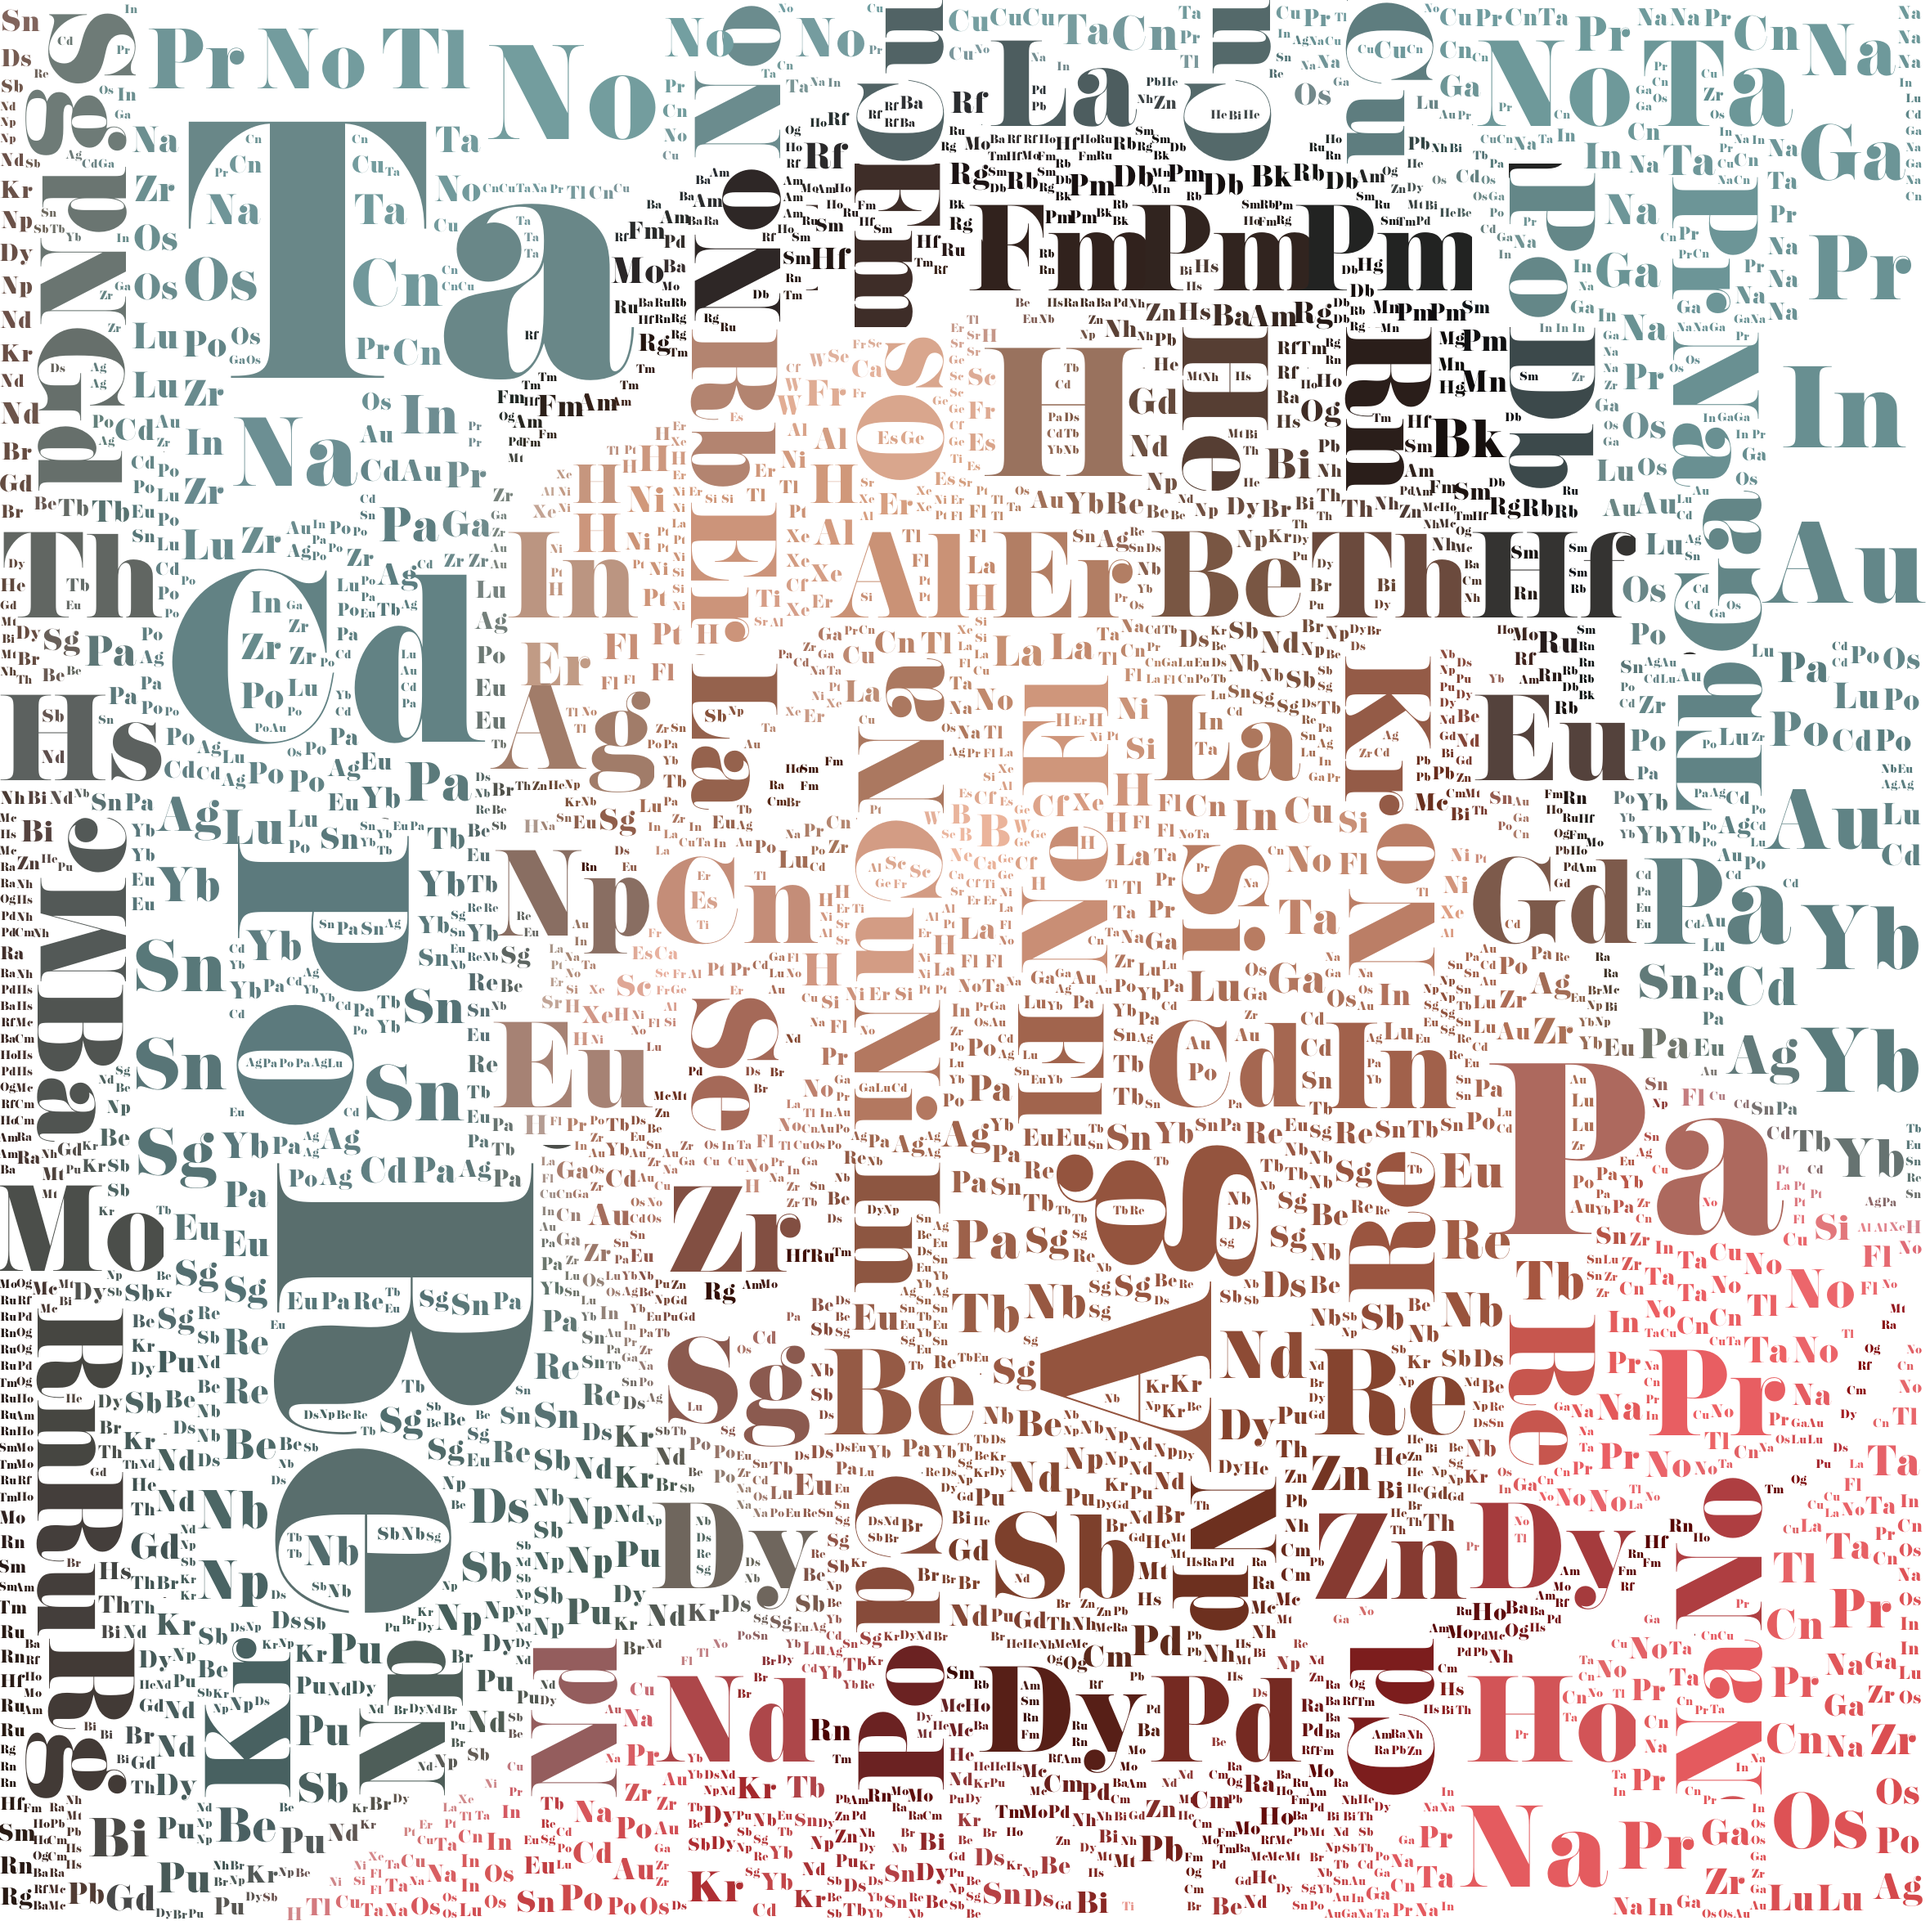
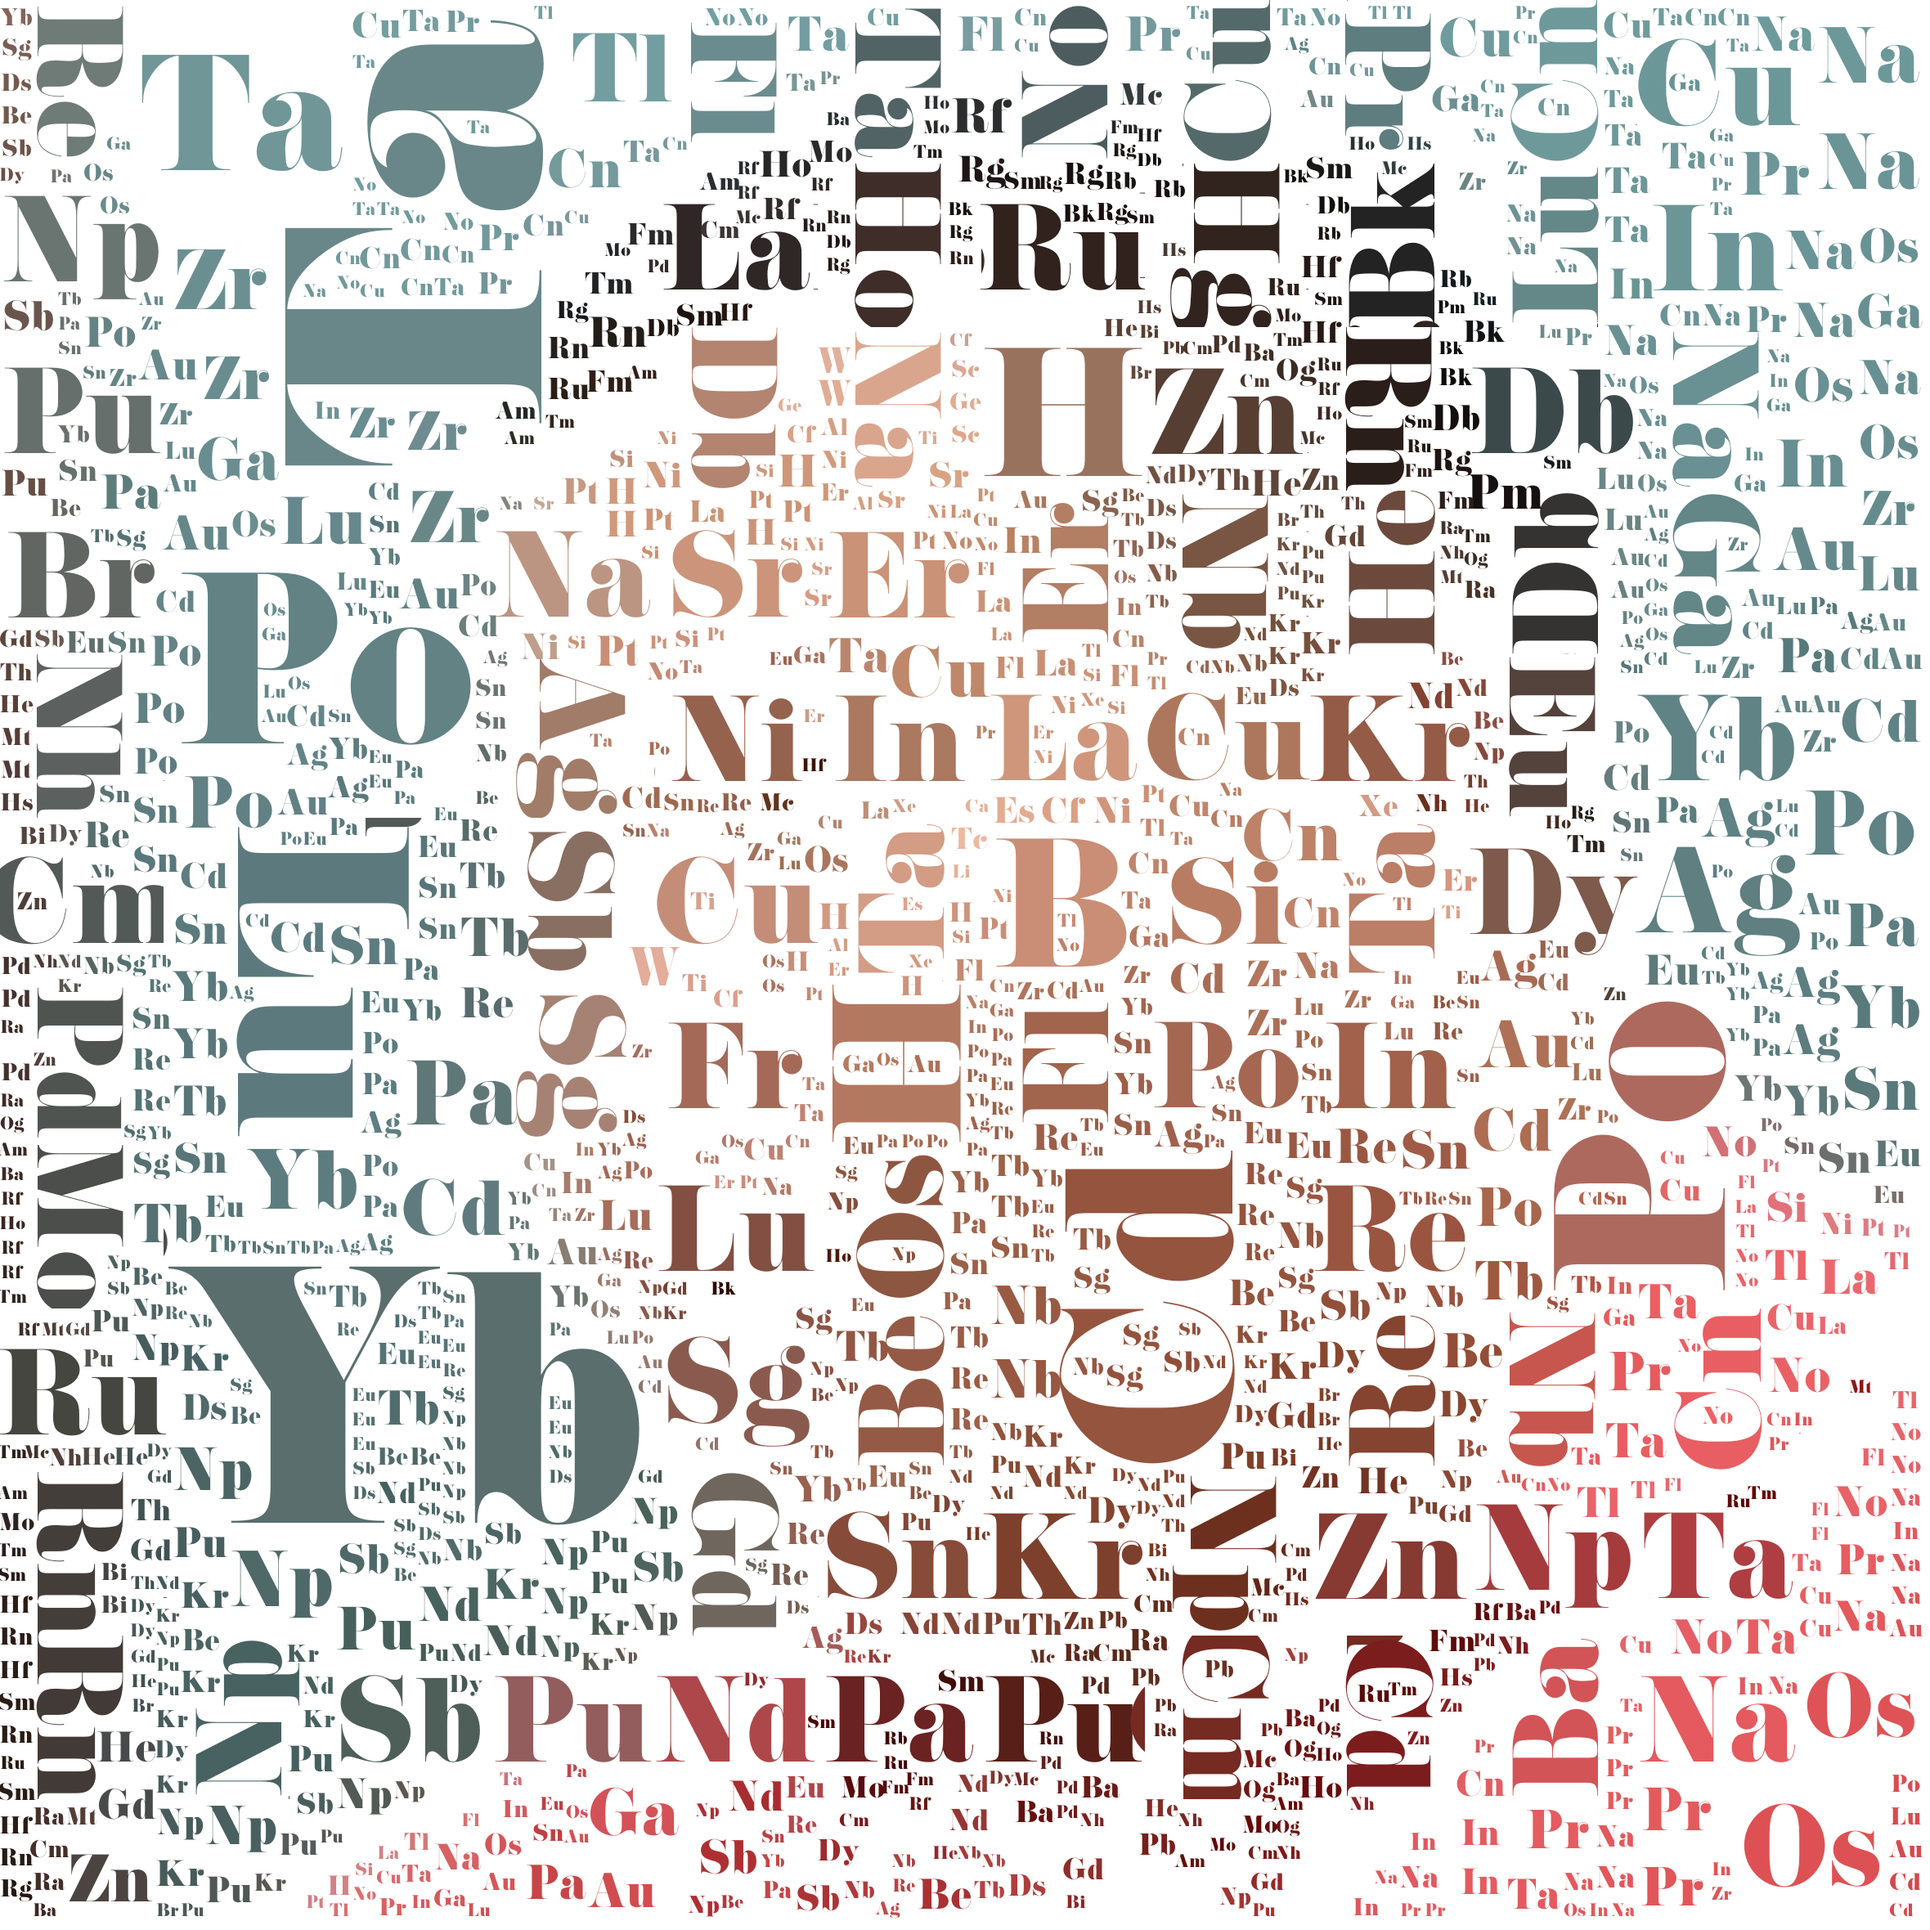
FinallyDone!!!

diff --git a/BoxingBrute3.py b/BoxingBrute3.py
@@ -1,0 +1,154 @@
+from os import path
+import os,csv
+from PIL import Image, ImageDraw,ImageFont
+from random import randint,choice
+
+# ====================================================================================================================================================
+# Define Shits
+
+def current_folder(file_name):
+    d = path.dirname(__file__) if "__file__" in locals() else os.getcwd()
+    return path.join(d, file_name)
+
+# with open(current_folder(r'txt\Element_sorted.txt'),"r") as f:
+#     Element=f.read().split(',')
+
+
+with open(current_folder(r"txt\element_abundance.csv")) as f:
+    raw=csv.reader(f)
+    field=next(raw)
+    Element=[]
+    for i in raw:
+        if len(i):
+            Element.append(i[1])
+    Grp_element=[]
+    cnt=2
+    i=0
+    while cnt<len(Element)//2:
+        Grp_element.append([Element[k] for k in range(i,min(len(Element)-1,i+cnt))])
+        i+=cnt
+        cnt=cnt*2
+
+    # group elements by decimal places
+print(Grp_element)
+# MAX_BOX_SIZE=45
+
+
+# IMPORTANT!!!! TODO ALGRITHM
+def map_to(l,v): # need to redo scaling algrithm
+    #use size of box determine which category should the word be in
+    # linear doesnt work!
+    # alter should be max/val
+    # categroise should be exponetial!
+    # maybe ill need to play around with maths
+    alter=choice(l[max(-len(l),-v//10)])
+    return alter
+
+class txt():
+    def __init__(self , word:str  , font_path:str , rect:tuple , fill:tuple) :
+        font_size_ref={1:1,2:1.5}
+        self.text=word
+        self.font_path=font_path
+        self.x=None
+        self.y=None
+        self.rect=rect
+        self.font_size=(rect[2]-rect[0])/font_size_ref[len(word)]
+        self.fill=fill
+    def draw(self,scale:int , canvas:ImageDraw, canvas_img:Image , fill=(-1,-1,-1) , bg:bool=False,rotate:bool=False):
+        #scale
+        font = ImageFont.truetype(self.font_path,self.font_size*scale)
+        bbox= font.getbbox(self.text)  # Size of text w/font if rendered.
+        txt_width ,txt_height = bbox[2]-bbox[0], bbox[3]-bbox[1]
+        txt_l,txt_u=((scale*(self.rect[0]+self.rect[2])//2)-txt_width//2 , (scale*(self.rect[1]+self.rect[3])//2) - txt_height//2)
+        try:
+            if(fill[0]==-1): fill=self.fill
+        except:
+            pass
+        rect=tuple(map(lambda x:x*scale,self.rect))
+        if(bg):canvas.rectangle(rect,fill=self.fill)
+        canvas.text((txt_l,txt_u), self.text, fill=fill,font=font,align="centre")
+
+        if(rotate):
+            rotation=choice([270,0,0,90])
+            tmp = canvas_img.crop (rect)
+            tmp = tmp.rotate (rotation, expand = 1)
+            canvas_img.paste (tmp, (rect[0],rect[1]))
+
+
+# ====================================================================================================================================================
+#Load Shits
+
+img=Image.open(current_folder(r"style\Face3.jpg"))
+imgl=img.convert("L")
+w,h=imgl.size
+
+# ====================================================================================================================================================
+# Here onward, First round of Boxxing(big boxes)
+
+
+# delete pixel flag, change to a greyscale canvas
+flag=Image.new(size=(w,h),color=255,mode='L')
+flag_canvas=ImageDraw.Draw(flag)
+
+ENLARGE=10
+TXT=[]
+
+print(h,w)
+STEP1=1
+LAGRER_FACTOR=1.2
+THRESHOLD1=40
+
+# need to double the scale of canvas !
+for y in range(h):
+    if y%10==0: print("row",y)
+    for x in range(w):
+        if( flag.getpixel((x,y))==255):
+            # overlap problem
+            # The starting block was not flagged, it eats into other boxes
+            mean=imgl.getpixel((x,y))
+            pc=0# pixel count
+            # prevh,prevw,prevd=mean,mean,mean
+            while(y+pc<h and x+pc<w):
+                    pixh=imgl.getpixel((x+pc,y))
+                    pixw=imgl.getpixel((x,y+pc))
+                    pixd=imgl.getpixel((x+pc,y+pc))
+                    # delete pixel flag, change to a greyscale canvas
+                    if(flag.getpixel((x+pc,y+pc))!=255 or  flag.getpixel((x,y+pc))!=255 or flag.getpixel((x+pc,y))!=255): break
+                    if( abs(pixh-mean)+abs(pixw-mean)+abs(pixd-mean)>=THRESHOLD1+(pc*LAGRER_FACTOR) ):
+                        break
+                    else:
+                        # mean+=pixh+pixw+pixd
+                        pc+=STEP1
+            if(y+pc>=h or x+pc>=w): pc-=STEP1
+            RGBmean=[0,0,0]
+            for a in range(pc):
+                for b in range(pc):
+                    # pixel_flag[y+a][x+b]=False
+                    r,g,b=img.getpixel((x+b,y+a))
+                    RGBmean[0]+=r
+                    RGBmean[1]+=g
+                    RGBmean[2]+=b
+
+            if(pc!=0):
+                res=map_to(Grp_element,pc)
+                # print(pc)
+                cur_text=txt(
+                    res,
+                    current_folder(r"txt\Pistilli-Roman.otf"),
+                    (x,y,x+pc,y+pc),
+                    tuple(map(lambda x: x//(pc*pc),RGBmean))
+                )
+                cur_text.draw(1,flag_canvas,flag,fill=0)
+                # flag.show()
+                TXT.append(cur_text)
+                # input(res)
+# flag.show()
+canvas_img=Image.new(mode="RGB",size=(w*ENLARGE,h*ENLARGE),color=(255,255,255))
+canvas=ImageDraw.Draw(canvas_img)
+for todo in TXT:
+    todo.draw(ENLARGE,canvas,canvas_img)
+    # print(todo.text)
+# canvas_img.show()
+canvas_img.save(current_folder(r"style\_res4.png"))
+# input("cut")
+print("round 1 done")

diff --git a/WordCloud2.py b/WordCloud2.py
@@ -17,7 +17,7 @@ raw_Abundance=csv.reader(open(current_folder(r"txt\element_abundance.csv")))
 Element={}
 fields=next(raw_Abundance)
 for row in raw_Abundance:
-    if(len(row)): Element[row[1]]=max(int(float(row[4])*10),1)
+    if(len(row)): Element[row[1]]=max(int(float(row[4])*2),1)
 
 
 
@@ -47,10 +47,10 @@ coloring = np.array(img)
 wc = WordCloud(font_path=current_folder(r"txt\Pistilli-Roman.otf"),background_color="white",
                width=w*FACTOR,height=h*FACTOR,
             #    mask=coloring,
-               max_words=4000,contour_color="black",contour_width=2,
+               max_words=3000,contour_color="black",
                repeat=True,
-               relative_scaling=0.01,min_font_size=4,
-               max_font_size=80, random_state=42,scale=5)
+               relative_scaling=0.01,min_font_size=5,
+               max_font_size=80, random_state=42,scale=2)
 # generate word cloud               
 wc.generate_from_frequencies(Element)
 image_colors = ImageColorGenerator(coloring)

diff --git a/BoxingBrute2.py b/BoxingBrute2.py
@@ -128,9 +128,9 @@ TXT2=[]
 txt_ref=canvas_img.convert('L').resize((w,h))
 # txt_ref.show()
 STEP2=1
-THRESHOLD1=20
+THRESHOLD1=30
 
-BOX_SIZE_LIM=1 # threshold of box size
+BOX_SIZE_LIM=2 # threshold of box size
 
 def interpolate(x:float):
     return x

diff --git a/README.md b/README.md
@@ -1,21 +1,35 @@
 # ElementStringPicture
- Preparing a special teacher's day gift for my chem teacher
-
-# Idea
+Preparing a special teacher's day gift for my chem teacher
+![Fianl Product!!](style/_res4.png)
+# Idea💡
 Use Elements to form the picture, so that seen form afar is my Chemistry Teacher teaching\
 I wish to draw the human protrait in some special chemicals, but that will be for updates later
 
-# Approaches
+# Summary
+- **sort_symbol_density.py** paste the text symbol on a square canvas, then sort them by No. of black pixel\
+used to determine the optical density of elements
+- **WordCloud.py** is my first version of code using the pre-made python wordcloud libary
+- **BoxBruteN.py** is different version of the main programme, explanation in *Dev log*
+- **folder "txt"** contain some assets, such as 
+    - font I downloaded online
+    - element sorted by optcial denisty
+    - Abundance and yearly yield of elements in tonne (from  [wikipedia][https://www.wikiwand.com/en/Abundance_of_elements_in_Earth%27s_crust], sorted in csv)
+USe PIL to process image, BS4 to extract some data
+
+
+# Dev log👨💻
 
 ## 1. Sort symbol density
 Create canvas, use PIL ImageDraw and count no. of black pixel.EZ\
 This can be used for other projects, (*maybe math? which you measure greek letters...*)\
 *Done on 22/7/2024*
 ## 2. Wordcloud?
+![Wordcloud1](style/_res0.png)
 Use the prebuilt python wordcloud lib  to colour a wordcloud to the colour of the picture.\
 Result... I cannot distinguish any details.
 
 ## 3. "Boxing" via brute force V1
+![Boxing Brute 1](style/_res2.png)
 Before even doing it I know it will be hell of Time compextity\
 actually it was fine...
 ### Process
@@ -34,6 +48,7 @@ actually it was fine...
 *Done on 23/7/2024*
 
 ## 4. "Boxing" via brute force V2
+![Boxing Brute 2](style/_res3.png)
 I did what i anticipated yesterday.. yet, it looks even shittier that the wordcloud\
 I added some random rotations, it helps
 
@@ -47,3 +62,30 @@ Yea thats a **great** idea
 Olevel oral tmr, wifi off at 9pm, got ot go\
 p.s. changed some variables to last version, works significantly better\
 *Done on 24/7/2024*
+
+## 5. "Boxing" by relative abundace
+1. I'm quite satisfied with the algrithm, so now I wanna do the size of elements by relative abundace
+1. First we have to extract the data from [wikipedia][https://www.wikiwand.com/en/Abundance_of_elements_in_Earth%27s_crust]
+1. I copied and pasted HTML into a file, then extract it with BS4
+
+## 6. Wordcloud with relative abundance
+![WordCloud2](style/_res1.png)
+1. yea eveyrthing in good progress, i just need to do up some details
+1. Both Algrithm produce ok-ish result, so ill use mine
+1. take a better photo and lets start drawing
+
+**NEED to do weighting for my code!!!**
+**Sort block size, then sort abundace, then map**
+Olevel oral tmr(Again...), wifi off at 9pm, got ot go\
+*Done on 25/7/2024*
+
+## 7. "Boxing" by abundance abundance
+![Boxing Brute 3](style/_res4.png)
+1. i re-did the mapping algrithm to map *size of the box % 10* to $2^n-1$ to $2^n$ th element
+1. turned out very well!! 🥳
+
+## Credit
+idk who took the photograph but the picture is my chem teacher、
+Im praying nobody will steal his picture from this random github project🥲
+
+*And... Finally Done!(27/7/2024)*
